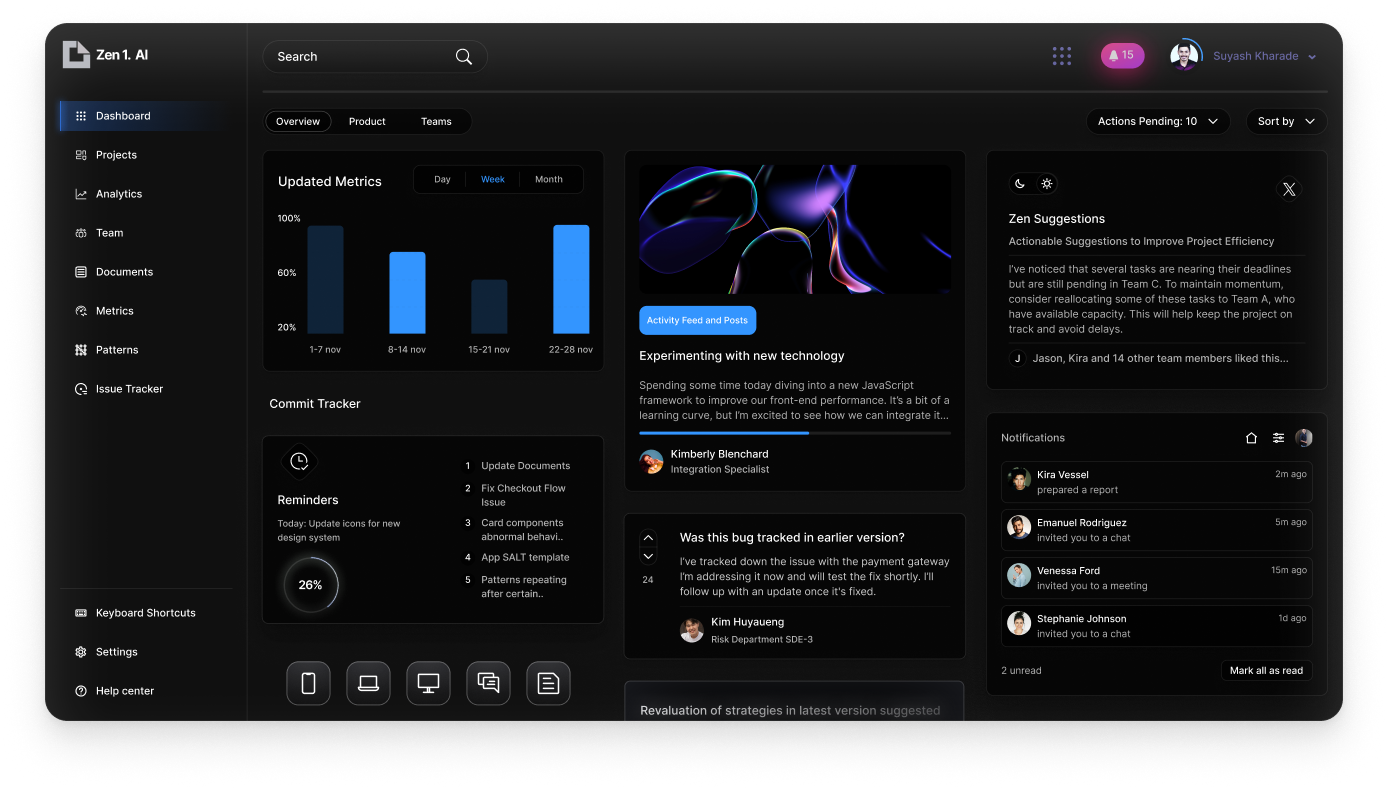
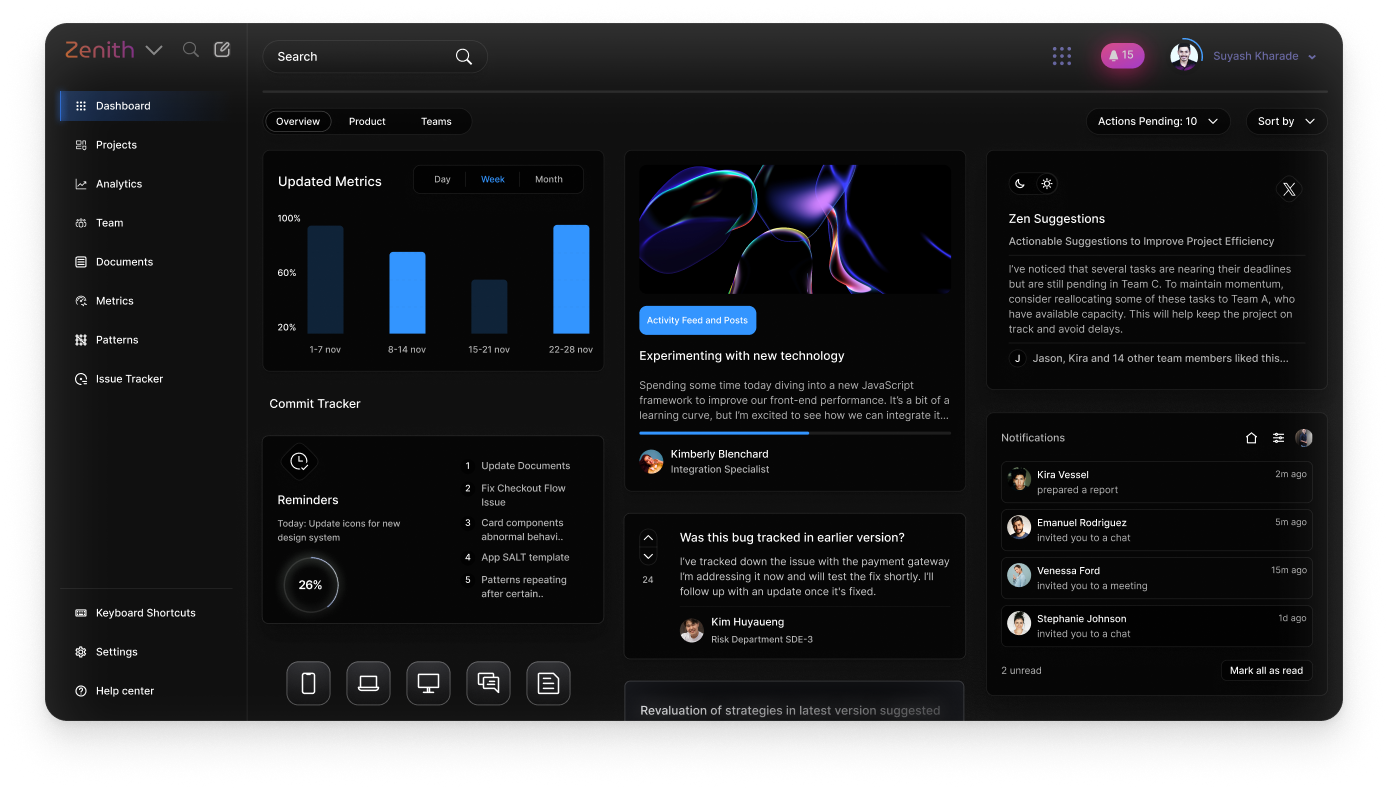
Altered the Overall Apperance a bit

Changed region(s): [[0.031, 0.0304, 0.1239, 0.3954], [0.031, 0.4259, 0.1239, 0.5171]]

diff --git a/app/components/BentoGrid.jsx b/app/components/BentoGrid.jsx
@@ -21,10 +21,10 @@ const BentoGrid = () => {
   };
   return (
     <div id="capabilities" className="w-full flex flex-col gap-12 pb-20">
-      <div className="  w-[80%] mobiles:w-[90%] custom:w-[90%] max-w-[1080px] mx-auto grid grid-cols-12 grid-rows-8 border-2 border-[#ffffff0d]">
+      <div className="  w-[80%] mobiles:w-[90%] custom:w-[90%] max-w-[1080px] mx-auto grid grid-cols-12 grid-rows-8">
         {/* Card1 */}
 
-        <div className=" col-span-6 row-span-2 mobiles:col-span-12 mobiles:row-span-1 mobiles:p-4 py-12 px-14 font-host-grotesk border-2 border-[#ffffff0d] ">
+        <div className=" col-span-6 row-span-2 mobiles:col-span-12 mobiles:row-span-1 mobiles:p-4 py-12 px-14 font-host-grotesk border-y-2 border-r-2 border-[#ffffff0d] ">
           <h4 className="text-[#f7f8f8] text-[24px] mobiles:text-[17px] leading-7 pb-1 font-medium">
             Manage projects end-to-end
           </h4>
@@ -50,7 +50,7 @@ const BentoGrid = () => {
 
         {/* card 2 */}
 
-        <div className="col-span-6 row-span-2 mobiles:col-span-12 mobiles:row-span-1 mobiles:p-4 mobiles:overflow-hidden py-12 px-14 font-host-grotesk border-2 border-[#ffffff0d] ">
+        <div className="col-span-6 row-span-2 mobiles:col-span-12 mobiles:row-span-1 mobiles:p-4 mobiles:overflow-hidden py-12 px-14 font-host-grotesk border-y-2 border-l-2 border-[#ffffff0d] ">
           <h4 className="text-[#f7f8f8] text-[24px] mobiles:text-[17px] leading-7 pb-1 font-medium">
             Stay Informed with Project Updates
           </h4>
@@ -85,7 +85,7 @@ const BentoGrid = () => {
 
         {/* card 3 */}
 
-        <div className=" col-span-6 row-span-2 mobiles:col-span-12 mobiles:row-span-1 mobiles:p-4 py-12 px-14 font-host-grotesk border-2 border-[#ffffff0d] ">
+        <div className=" col-span-6 row-span-2 mobiles:col-span-12 mobiles:row-span-1 mobiles:p-4 py-12 px-14 font-host-grotesk border-y-2 border-r-2 border-[#ffffff0d] ">
           <h4 className="text-[#f7f8f8] text-[24px] mobiles:text-[17px] leading-7 pb-1 font-medium">
             Anticipate Trends with AI Precision
           </h4>
@@ -111,7 +111,7 @@ const BentoGrid = () => {
 
         {/* card 4 */}
 
-        <div className=" col-span-6 row-span-2 mobiles:col-span-12 mobiles:row-span-1 mobiles:p-4 py-12 px-14 font-host-grotesk border-2 border-[#ffffff0d]">
+        <div className=" col-span-6 row-span-2 mobiles:col-span-12 mobiles:row-span-1 mobiles:p-4 py-12 px-14 font-host-grotesk border-y-2 border-l-2 border-[#ffffff0d]">
           <h4 className="text-[#f7f8f8] text-[24px] mobiles:text-[17px] leading-7 pb-1 font-medium">
             Streamline Task Management
           </h4>
@@ -152,7 +152,7 @@ const BentoGrid = () => {
 
         {/* card 5 */}
 
-        <div className="col-span-12 row-span-2 py-12 px-14 mobiles:p-4 mobiles:h-full mobiles:overflow-hidden font-host-grotesk border-2 border-[#ffffff0d]">
+        <div className="col-span-12 row-span-2 py-12 px-14 mobiles:p-4 mobiles:h-full mobiles:overflow-hidden font-host-grotesk border-y-2 border-[#ffffff0d]">
           <div className="w-full flex mobiles:flex-col mobiles:gap-10 justify-between">
             <div className="flex flex-col gap-3 mt-[64px] mobiles:mt-0">
               <h4 className="text-[24px] mobiles:text-[17px] tracking-tighter leading-8 text-[#f7f7f8]">
@@ -230,7 +230,7 @@ const BentoGrid = () => {
 
         {/* card 6 */}
 
-        <div className="col-span-4 row-span-2 py-2 px-4 mobiles:col-span-12 mobiles:row-span-1 mobiles:p-4 mobiles:h-full mobiles:overflow-hidden font-host-grotesk border-2 border-[#ffffff0d]">
+        <div className="col-span-4 row-span-2 py-2 px-4 mobiles:col-span-12 mobiles:row-span-1 mobiles:p-4 mobiles:h-full mobiles:overflow-hidden font-host-grotesk border-y-2 border-r-2 border-[#ffffff0d]">
 
           <div className="w-full h-full">
             <div className=" h-full flex flex-col justify-around text-center parentStack rounded-[10px]">
@@ -260,7 +260,7 @@ const BentoGrid = () => {
 
         {/* card 7 */}
 
-        <div className="chatDivContainer col-span-4 row-span-2 py-2 px-4 mobiles:col-span-12 mobiles:row-span-1 mobiles:p-4 mobiles:h-full mobiles:overflow-hidden font-host-grotesk border-2 border-[#ffffff0d]">
+        <div className="chatDivContainer col-span-4 row-span-2 py-2 px-4 mobiles:col-span-12 mobiles:row-span-1 mobiles:p-4 mobiles:h-full mobiles:overflow-hidden font-host-grotesk border-y-2 border-x-2 border-[#ffffff0d]">
           <div className="w-full h-full flex flex-col justify-around">
 
             <div className="w-[90%] mx-auto border border-[#232323] rounded-[10px] flex flex-col py-5 gap-5 overflow-hidden [mask-image:linear-gradient(to_right,white_20%,white_80%,transparent)]"
@@ -290,7 +290,7 @@ const BentoGrid = () => {
 
         {/* card 8 */}
 
-        <div className="col-span-4 row-span-2 py-2 px-4 mobiles:col-span-12 mobiles:row-span-1 mobiles:p-4 mobiles:h-full mobiles:overflow-hidden font-host-grotesk border-2 border-[#ffffff0d]">
+        <div className="col-span-4 row-span-2 py-2 px-4 mobiles:col-span-12 mobiles:row-span-1 mobiles:p-4 mobiles:h-full mobiles:overflow-hidden font-host-grotesk border-y-2 border-l-2 border-[#ffffff0d]">
           <div className="w-full h-full rounded-[10px] flex flex-col justify-around mobiles:gap-3 items-center micWork overflow-hidden cursor-default">
             <div className="relative micContainer w-fit rounded-full border-b-[rgba(176,214,255,0.8)]">
               <div id="circle1" className=" absolute h-full w-full border border-[rgba(176,214,255,0.8)] rounded-full scale-[5]"></div>

diff --git a/app/components/Features.jsx b/app/components/Features.jsx
@@ -91,79 +91,7 @@ const Features = () => {
             <PiDownloadFill className="text-[50px] mobiles:text-[30px] text-[#b0d6ffcc]" />
             <h6 className="text-[24px] text-[#f4f4f4]">Access & Quickly Export Reports</h6>
             <p className="text-[#95979e] text-[15px]">Instantly & Effortlessly retrieve and export reports for quick insights and decision-making.</p>
-          </div>
-
-        {/* <div className="w-[80%] m-auto flex mobiles:flex-col mobiles:items-center justify-between py-3">
-          <div className=" h-36 w-36 flex flex-col items-center justify-between py-5">
-              <div className="bg-[#101010] rounded-2xl p-[18px]">
-                <PiUsersThree className=" text-[30px] text-[#6353ff]" />
-              </div>
-              <p className="text-[14px] text-[#eaeaea] font-medium">Team Sync</p>
-          </div>
-          <div className=" h-36 w-36 flex flex-col items-center justify-between py-5">
-              <div className="bg-[#101010] rounded-2xl p-[18px]">
-                <PiLock className=" text-[30px] text-[#6353ff]" />
-              </div>
-              <p className="text-[14px] text-[#eaeaea] font-medium">256-Bit Encryption</p>
-          </div>
-          <div className=" h-36 w-36 flex flex-col items-center justify-between py-5">
-              <div className="bg-[#101010] rounded-2xl p-[18px]">
-                <PiChartDonut className=" text-[30px] text-[#6353ff]" />
-              </div>
-              <p className="text-[14px] text-[#eaeaea] font-medium">Custom Dashboards</p>
-          </div>
-          <div className=" h-36 w-36 flex flex-col items-center justify-between py-5">
-              <div className="bg-[#101010] rounded-2xl p-[18px]">
-                <PiTimer className=" text-[30px] text-[#6353ff]" />
-              </div>
-              <p className="text-[14px] text-[#eaeaea] font-medium">Session Tracking</p>
-          </div>
-          <div className="h-36 w-36 flex flex-col items-center justify-between py-5">
-              <div className="bg-[#101010] rounded-2xl p-[18px]">
-                <PiChat className=" text-[30px] text-[#6353ff]" />
-              </div>
-              <p className="text-[14px] text-[#eaeaea] font-medium">24x7 Support</p>
-          </div>
-          
-        </div> */}
-
-        {/* <div className="w-[80%] m-auto flex mobiles:flex-col mobiles:items-center justify-between py-3 ">
-          <div className=" h-36 w-36 flex flex-col items-center justify-between py-5">
-              <div className="bg-[#101010] rounded-2xl p-[18px]">
-                <PiIntersect className=" text-[30px] text-[#6353ff]" />
-              </div>
-              <p className="text-[14px] text-[#eaeaea] font-medium">Cross-Tracking</p>
-          </div>
-          <div className=" h-36 w-36 flex flex-col items-center justify-between py-5">
-              <div className="bg-[#101010] rounded-2xl p-[18px]">
-                <PiLightning className=" text-[30px] text-[#6353ff]" />
-              </div>
-              <p className="text-[14px] text-[#eaeaea] font-medium">Rapid Analysis</p>
-          </div>
-          <div className=" h-36 w-36 flex flex-col items-center justify-between py-5">
-              <div className="bg-[#101010] rounded-2xl p-[18px]">
-                <PiCertificate className=" text-[30px] text-[#6353ff]" />
-              </div>
-              <p className="text-[14px] text-[#eaeaea] font-medium">SOC3 Certified</p>
-          </div>
-          <div className=" h-36 w-36 flex flex-col items-center justify-between py-5">
-              <div className="bg-[#101010] rounded-2xl p-[18px]">
-                <PiNotification className=" text-[30px] text-[#6353ff]" />
-              </div>
-              <p className="text-[14px] text-[#eaeaea] font-medium">Dynamic Updates</p>
-          </div>
-          <div className="h-36 w-36 flex flex-col items-center justify-between py-5">
-              <div className="bg-[#101010] rounded-2xl p-[18px]">
-                <PiDownload className=" text-[30px] text-[#6353ff]" />
-              </div>
-              <p className="text-[14px] text-[#eaeaea] font-medium">Download Reports</p>
-          </div>
-          
-        </div> */}
-
-              
-                
-              
+          </div>              
 
       </div>
       

diff --git a/app/components/Footer.jsx b/app/components/Footer.jsx
@@ -12,7 +12,7 @@ const Footer = () => {
     <div className='w-full bg-[#0a0a0a] border-t border-[#232323] mt-10'>
       <div className='w-[80%] mx-auto mobiles:w-[95%] flex justify-between mobiles:flex-col mobiles:gap-5 px-2 py-8 mobiles:px-10 mobiles:items-start'>
         <div className='flex flex-col gap-5 justify-between'>
-          <img className='w-[126px] h-auto -translate-x-2' src="zen.png" alt="" />
+          <img className='w-[126px] h-auto -translate-x-2' src="logo3.png" alt="" />
           <div className='flex flex-col gap-4'>
             <h6 className='text-[14px] font-host-grotesk text-[#eaeaea]'>FOLLOW US</h6>
             <div className='flex gap-4 text-[#aaaaaa] cursor-pointer '>
@@ -69,7 +69,7 @@ const Footer = () => {
         <p className='text-[#61656b] text-[14px] font-Satoshi'>Copyright &#169; 2025 Zenith Labs, Inc.</p>
         <Link href="#" className='text-[16px] text-[#aaaaaa] hover:text-[#fafafa] font-Satoshi'>Privacy Policy</Link>
         <Link href="#" className='text-[16px] text-[#aaaaaa] hover:text-[#fafafa] font-Satoshi'>Terms of Service</Link>
-        <span className='flex items-center text-[#61656b] text-[14px] font-Satoshi'><img className='invert saturate-200 w-16' src="/heart.svg" alt="" /><p className='text-nowrap -translate-x-2'> Made with Passion </p> </span>
+        <span className='flex items-center text-[#61656b] text-[14px] font-Satoshi'><img className=' w-16' src="/heart.svg" alt="" /><p className='text-nowrap -translate-x-2'> Made with Passion </p> </span>
       </div>
       
     </div>

diff --git a/app/components/MarqueeCard.jsx b/app/components/MarqueeCard.jsx
@@ -32,7 +32,7 @@ const MarqueeCard = () => {
     },
     {
       quote:
-        "“Our process have been optimised by 15% overall - Gen1 has been the primary reason for us to achieve profitablility”",
+        "“Our process have been optimised by 15% overall - Zenith has been the primary reason for us to achieve profitablility”",
       name: "Peter Hendricks",
       title: "CEO at TechFi",
       img: "/client5.jpg",
@@ -46,9 +46,9 @@ const MarqueeCard = () => {
     },
     {
       quote:
-        "“Got 18% Month-On-M growth with Gen1. Love the insights & how simple it is to set things up & get started in it - great UX”",
+        "“Hands Down the best All-In-One Solution for project management, Team Management and Scaling , You need zenith.”",
       name: "Gary Wilson",
-      title: "CMO at Nexus Bank",
+      title: "CTO at Nexus Bank",
       img: "/client7.jpg",
     },
   ];
